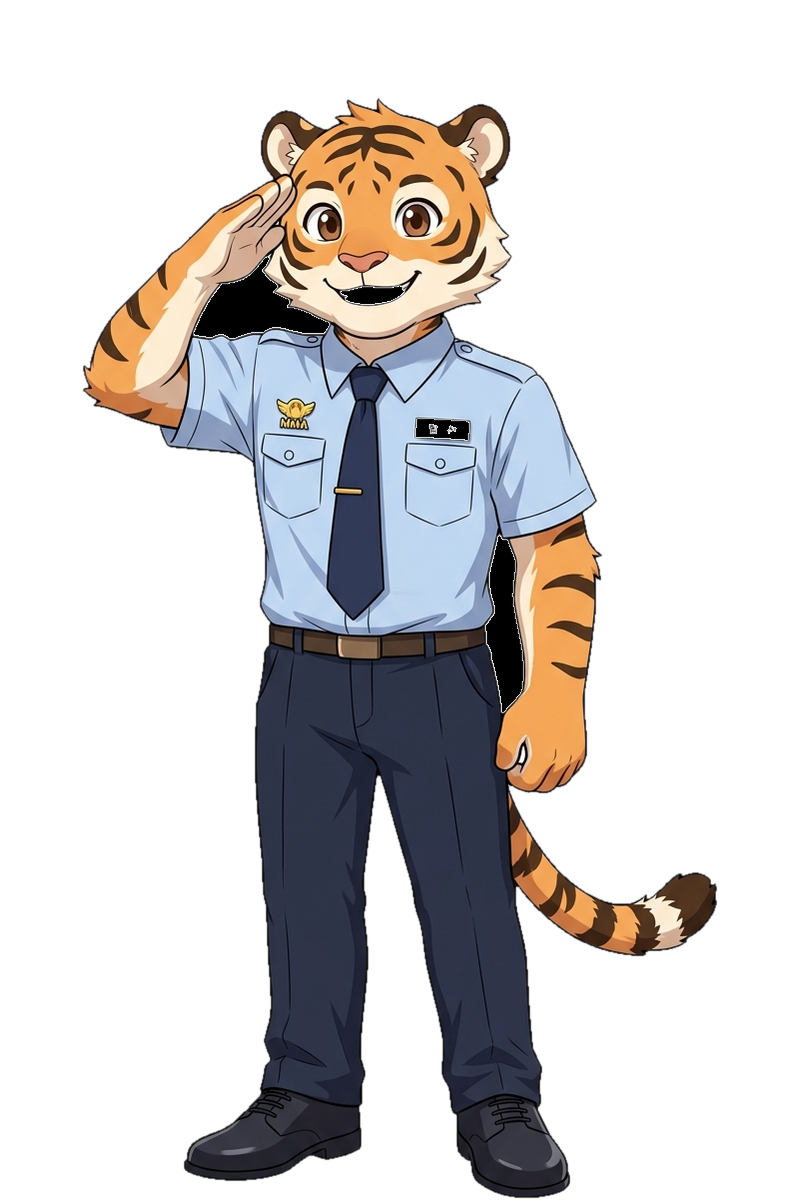
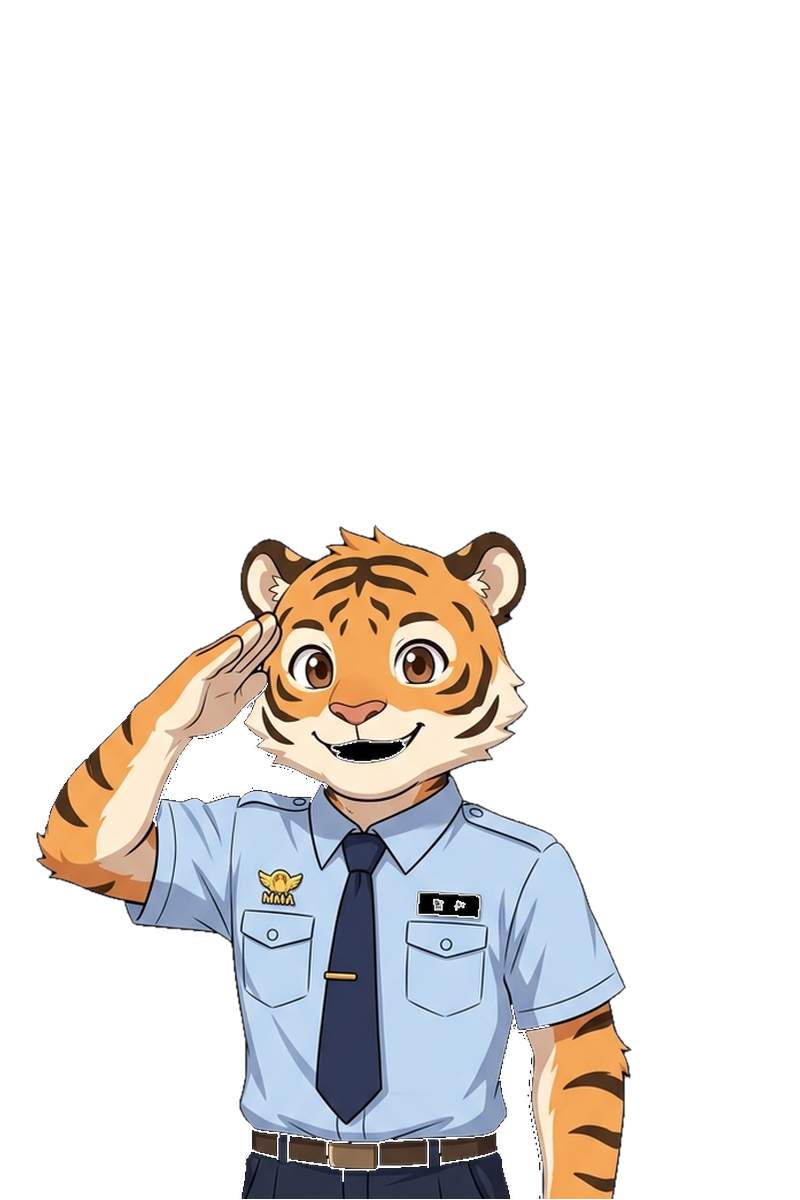
Refactor: 완벽 반영 11종 개선 완료 (배경 달력 제거, 힘찬이 바스트샷 구도 통일, 서울병무청 기본설정, 민원서식 별지제1호 개편, 질환/시력 서류 기준 명확화, 실제 병무청 심리/임상병리/진로설계 배경 적용, e병무지갑·병역진료센터 대본 설명 추가)

diff --git a/index.html b/index.html
@@ -643,10 +643,10 @@
     // 사용자 시뮬레이션 상태 저장소
     const userData = {
       name: "김민우",
-      region: "강원지방병무청",
-      regionName: "강원특별자치도 춘천시",
-      examDate: "2026-10-29 (목) 오전",
-      healthCheck: "특이 질환 없음 (정상 수검)",
+      region: "서울지방병무청",
+      regionName: "서울특별시 영등포구 여의대방로43길 13",
+      examDate: "2026-10-22 (목) 오전",
+      healthCheck: "특이질환 없음",
       hasDisease: false,
       cardType: "KB국민은행 나라사랑카드",
       height: 178,
@@ -1593,27 +1593,41 @@
             <div class="bg-slate-900/95 border border-slate-700/80 rounded-2xl p-5 space-y-4 shadow-2xl w-full">
               <div class="flex items-center justify-between border-b border-slate-800 pb-3">
                 <span class="font-bold text-sm text-white flex items-center gap-2">
-                  <i data-lucide="calendar-check-2" class="w-4 h-4 text-emerald-400"></i> ${userData.examDate || '2026년 10월 29일 (목) 오전'} 예약 가능
+                  <i data-lucide="calendar-check-2" class="w-4 h-4 text-emerald-400"></i> ${userData.examDate || '2026년 10월 22일 (목) 오전'} 예약 가능
                 </span>
                 <span class="text-[11px] px-2.5 py-0.5 rounded-lg bg-emerald-500/20 text-emerald-300 font-semibold">실시간 잔여석 확인됨</span>
               </div>
 
-              <!-- 자동 정리된 민원 신청 정보 박스 -->
-              <div class="bg-slate-950/90 rounded-xl p-3.5 border border-slate-800 space-y-2.5 text-xs">
-                <div class="flex items-center justify-between">
-                  <span class="font-bold text-slate-200 flex items-center gap-1.5 text-xs">
-                    <i data-lucide="file-text" class="w-3.5 h-3.5 text-blue-400"></i> 병무청 민원 신청서 자동 기입 양식
-                  </span>
-                  <button onclick="copyApplicationInfo()" id="btn-copy-info" class="px-2.5 py-1 rounded-lg bg-blue-600/30 hover:bg-blue-600 text-blue-300 hover:text-white border border-blue-500/40 text-[11px] font-bold transition flex items-center gap-1 cursor-pointer">
-                    <i data-lucide="copy" class="w-3 h-3"></i> <span id="copy-btn-text">신청 내용 복사</span>
+              <!-- 병무청 전자민원 신청서 공문서 양식 -->
+              <div class="bg-slate-950/95 rounded-xl p-4 border border-slate-800 space-y-3 text-xs">
+                <div class="flex items-center justify-between border-b border-slate-800 pb-2">
+                  <div>
+                    <span class="text-[10px] text-blue-400 font-bold uppercase tracking-wider block">병역법 시행령 제11조 [별지 제1호 서식]</span>
+                    <h4 class="font-extrabold text-white text-xs sm:text-sm">병역판정검사 일자 및 장소 본인선택(변경) 신청서</h4>
+                  </div>
+                  <button onclick="copyApplicationInfo()" id="btn-copy-info" class="px-2.5 py-1.5 rounded-lg bg-blue-600/30 hover:bg-blue-600 text-blue-300 hover:text-white border border-blue-500/40 text-[11px] font-bold transition flex items-center gap-1 cursor-pointer">
+                    <i data-lucide="copy" class="w-3.5 h-3.5"></i> <span id="copy-btn-text">신청 내용 복사</span>
                   </button>
                 </div>
-                
-                <div class="p-2.5 rounded-lg bg-slate-900/90 border border-slate-800 text-[11px] text-slate-300 space-y-1 leading-relaxed">
-                  <div><span class="text-slate-400">수검 희망일시:</span> <span class="text-blue-300 font-bold">${userData.examDate || '2026년 10월 29일 (목) 오전'}</span></div>
-                  <div><span class="text-slate-400">수검 희망기관:</span> <span class="text-slate-200 font-semibold">${userData.region} (${contact.dept || '병역판정검사과'})</span></div>
-                  <div><span class="text-slate-400">검사장 주소:</span> <span class="text-slate-300">${contact.address}</span></div>
-                  <div><span class="text-slate-400">직통 문의전화:</span> <span class="text-emerald-400 font-semibold">${contact.phone}</span></div>
+
+                <!-- 신청인 인적사항 & 접수현황 -->
+                <div class="grid grid-cols-2 gap-2 bg-slate-900/80 p-2.5 rounded-lg text-[11px]">
+                  <div><span class="text-slate-400">신청인(성명):</span> <strong class="text-slate-200">${userData.name}</strong></div>
+                  <div><span class="text-slate-400">생년월일:</span> <span class="text-slate-200">2007. 10. 15 (만 19세)</span></div>
+                  <div><span class="text-slate-400">접수번호:</span> <span class="text-emerald-400 font-mono font-bold">2026-MMA-847219</span></div>
+                  <div><span class="text-slate-400">신청사유:</span> <span class="text-blue-300 font-semibold">학사일정 중복 본인선택</span></div>
+                </div>
+
+                <!-- 수검 희망 검사장 내역 -->
+                <div class="p-3 rounded-lg bg-slate-900/80 space-y-1.5 text-[11px] leading-relaxed">
+                  <div class="flex items-start gap-1"><span class="text-slate-400 shrink-0">수검 희망일시:</span> <strong class="text-blue-300 font-bold">${userData.examDate || '2026년 10월 22일 (목) 오전'}</strong></div>
+                  <div class="flex items-start gap-1"><span class="text-slate-400 shrink-0">수검 희망기관:</span> <strong class="text-white">${userData.region} (${contact.dept || '병역판정검사과'})</strong></div>
+                  <div class="flex items-start gap-1"><span class="text-slate-400 shrink-0">검사장 소재지:</span> <span class="text-slate-300">${contact.address}</span></div>
+                  <div class="flex items-start gap-1"><span class="text-slate-400 shrink-0">직통 문의전화:</span> <span class="text-emerald-400 font-semibold">${contact.phone}</span></div>
+                  <div class="pt-1.5 border-t border-slate-800/80 text-[10px] text-slate-400 flex items-center gap-1">
+                    <i data-lucide="info" class="w-3 h-3 text-blue-400 shrink-0"></i>
+                    <span>지참물: 주민등록증·운전면허증·여권 등 공인 신분증 필수 (지참 시 신속 수검)</span>
+                  </div>
                 </div>
               </div>
             </div>
@@ -1632,34 +1646,50 @@
       } else if (type === 'HEALTH_CHECK_CHOICE') {
         choiceContainer.innerHTML = `
           <div class="flex flex-col gap-2.5 w-full animate-in fade-in zoom-in-95 duration-150">
+            <!-- 1. 특이질환 없음 (단순 시력저하·안경 포함) -->
+            <button onclick="playBeep(750, 'triangle', 0.05); selectHealth('특이질환 없음');" onmouseenter="playBeep(450, 'sine', 0.015)" class="group w-full p-3.5 rounded-xl bg-slate-900/95 hover:bg-slate-800/95 border border-slate-700 hover:border-emerald-400 transition duration-150 text-left flex items-center justify-between shadow-lg cursor-pointer">
+              <div class="flex items-center gap-3">
+                <span class="w-6 h-6 rounded-lg bg-emerald-600/20 border border-emerald-500/30 text-emerald-300 flex items-center justify-center text-xs font-bold shrink-0">1</span>
+                <div>
+                  <p class="font-bold text-xs sm:text-sm text-white group-hover:text-emerald-300">특이질환 없음 (단순 시력저하·안경 착용 포함)</p>
+                  <p class="text-xs text-slate-400 mt-0.5">서류 제출 불필요 · 병무청 자체 장비로 현장 정밀 측정 (신분증만 지참)</p>
+                </div>
+              </div>
+              <i data-lucide="chevron-right" class="w-4 h-4 text-slate-500 group-hover:text-emerald-300 transition"></i>
+            </button>
+
+            <!-- 2. 정형외과 질환 및 수술 -->
             <button onclick="playBeep(750, 'triangle', 0.05); selectHealth('정형외과 수술/치료 이력');" onmouseenter="playBeep(450, 'sine', 0.015)" class="group w-full p-3.5 rounded-xl bg-slate-900/95 hover:bg-slate-800/95 border border-slate-700 hover:border-blue-400 transition duration-150 text-left flex items-center justify-between shadow-lg cursor-pointer">
               <div class="flex items-center gap-3">
-                <span class="w-6 h-6 rounded-lg bg-blue-600/20 border border-blue-500/30 text-blue-300 flex items-center justify-center text-xs font-bold shrink-0">1</span>
-                <div><p class="font-bold text-xs sm:text-sm text-white group-hover:text-blue-300">무릎 / 발목 / 척추 질환 및 수술 이력</p><p class="text-xs text-slate-400 mt-0.5">병무용진단서 + 수술기록지 + MRI 영상 CD 필수</p></div>
-              </div>
-              <i data-lucide="chevron-right" class="w-4 h-4 text-slate-500 group-hover:text-blue-300 transition"></i>
-            </button>
-
-            <button onclick="playBeep(750, 'triangle', 0.05); selectHealth('시력/안과 질환');" onmouseenter="playBeep(450, 'sine', 0.015)" class="group w-full p-3.5 rounded-xl bg-slate-900/95 hover:bg-slate-800/95 border border-slate-700 hover:border-blue-400 transition duration-150 text-left flex items-center justify-between shadow-lg cursor-pointer">
-              <div class="flex items-center gap-3">
                 <span class="w-6 h-6 rounded-lg bg-blue-600/20 border border-blue-500/30 text-blue-300 flex items-center justify-center text-xs font-bold shrink-0">2</span>
-                <div><p class="font-bold text-xs sm:text-sm text-white group-hover:text-blue-300">시력 교정술 및 안과 질환</p><p class="text-xs text-slate-400 mt-0.5">최근 안과 소견서 / 의무기록사본 지참</p></div>
+                <div>
+                  <p class="font-bold text-xs sm:text-sm text-white group-hover:text-blue-300">무릎 / 발목 / 척추 질환 및 수술 이력</p>
+                  <p class="text-xs text-slate-400 mt-0.5">병무용진단서 + 수술기록지 + MRI/CT 영상 CD 필수 지참</p>
+                </div>
               </div>
               <i data-lucide="chevron-right" class="w-4 h-4 text-slate-500 group-hover:text-blue-300 transition"></i>
             </button>
 
-            <button onclick="playBeep(750, 'triangle', 0.05); selectHealth('내과/복용약');" onmouseenter="playBeep(450, 'sine', 0.015)" class="group w-full p-3.5 rounded-xl bg-slate-900/95 hover:bg-slate-800/95 border border-slate-700 hover:border-blue-400 transition duration-150 text-left flex items-center justify-between shadow-lg cursor-pointer">
+            <!-- 3. 기질적 안과 질환 및 수술 -->
+            <button onclick="playBeep(750, 'triangle', 0.05); selectHealth('기질적 안과 질환/수술');" onmouseenter="playBeep(450, 'sine', 0.015)" class="group w-full p-3.5 rounded-xl bg-slate-900/95 hover:bg-slate-800/95 border border-slate-700 hover:border-blue-400 transition duration-150 text-left flex items-center justify-between shadow-lg cursor-pointer">
               <div class="flex items-center gap-3">
                 <span class="w-6 h-6 rounded-lg bg-blue-600/20 border border-blue-500/30 text-blue-300 flex items-center justify-center text-xs font-bold shrink-0">3</span>
-                <div><p class="font-bold text-xs sm:text-sm text-white group-hover:text-blue-300">천식 / 피부질환 / 만성 투약 질환</p><p class="text-xs text-slate-400 mt-0.5">처방전 및 6개월 이상 지속 복용기록</p></div>
+                <div>
+                  <p class="font-bold text-xs sm:text-sm text-white group-hover:text-blue-300">기질적 안과 질환(망막·각막·녹내장 등) 수술·치료 이력</p>
+                  <p class="text-xs text-slate-400 mt-0.5">병무용진단서 + 의무기록사본 지참 (※단순 근시·원시·난시는 서류 불필요)</p>
+                </div>
               </div>
               <i data-lucide="chevron-right" class="w-4 h-4 text-slate-500 group-hover:text-blue-300 transition"></i>
             </button>
 
-            <button onclick="playBeep(750, 'triangle', 0.05); selectHealth('특이 질환 없음 (정상 수검)');" onmouseenter="playBeep(450, 'sine', 0.015)" class="group w-full p-3.5 rounded-xl bg-slate-900/95 hover:bg-slate-800/95 border border-slate-700 hover:border-blue-400 transition duration-150 text-left flex items-center justify-between shadow-lg cursor-pointer">
+            <!-- 4. 내과 / 만성 질환 -->
+            <button onclick="playBeep(750, 'triangle', 0.05); selectHealth('내과/복용약');" onmouseenter="playBeep(450, 'sine', 0.015)" class="group w-full p-3.5 rounded-xl bg-slate-900/95 hover:bg-slate-800/95 border border-slate-700 hover:border-blue-400 transition duration-150 text-left flex items-center justify-between shadow-lg cursor-pointer">
               <div class="flex items-center gap-3">
                 <span class="w-6 h-6 rounded-lg bg-blue-600/20 border border-blue-500/30 text-blue-300 flex items-center justify-center text-xs font-bold shrink-0">4</span>
-                <div><p class="font-bold text-xs sm:text-sm text-slate-200 group-hover:text-blue-300">특이 질환 없음 (신체 건강)</p><p class="text-xs text-slate-500 mt-0.5">신분증만 지참하고 당일 참석</p></div>
+                <div>
+                  <p class="font-bold text-xs sm:text-sm text-white group-hover:text-blue-300">천식 / 피부질환 / 만성 질환 투약 이력 (6개월 이상)</p>
+                  <p class="text-xs text-slate-400 mt-0.5">6개월 이상 지속 치료 의무기록사본 및 처방전 지참</p>
+                </div>
               </div>
               <i data-lucide="chevron-right" class="w-4 h-4 text-slate-500 group-hover:text-blue-300 transition"></i>
             </button>
@@ -2573,7 +2603,7 @@
       if (choiceContainer) choiceContainer.innerHTML = '';
 
       userData.healthCheck = val;
-      userData.hasDisease = !val.includes('특이 질환 없음');
+      userData.hasDisease = !(val.includes('특이질환') || val.includes('특이 질환'));
       if (userData.hasDisease) {
         userData.finalGrade = "4급 (보충역)";
         userData.disposition = "사회복무요원 소집 대상";
@@ -2635,15 +2665,24 @@
 
     // 병무청 민원 신청서 작성용 필수 정보 원클릭 복사
     function copyApplicationInfo() {
-      const contact = (typeof MmaApiService !== 'undefined') ? MmaApiService.getOfficeContact(userData.region) : { phone: "033-240-6241", address: "강원도 춘천시 백령로 65 (남춘천역 셔틀)", dept: "병역판정검사과" };
-      const textToCopy = `[병무청 병역판정검사 일자 및 장소 본인선택 신청 정보]
-• 수검 희망일시: ${userData.examDate || '2026-10-29 (목) 오전'}
+      const contact = (typeof MmaApiService !== 'undefined') ? MmaApiService.getOfficeContact(userData.region) : { phone: "02-820-4241", address: "서울특별시 영등포구 여의대방로43길 13 (신길역/대방역)", dept: "병역판정검사과" };
+      const textToCopy = `[별지 제1호 서식] 병역판정검사 일자 및 장소 본인선택(변경) 신청서
+■ 신청인 정보
+• 성명: ${userData.name}
+• 생년월일: 2007년 10월 15일 (만 19세)
+• 접수번호: 2026-MMA-847219
+• 신청구분: 병역판정검사 일자 및 장소 본인선택 (학사일정 중복 사유)
+
+■ 수검 희망 검사장 내역
+• 수검 희망일시: ${userData.examDate || '2026년 10월 22일 (목) 오전'}
 • 수검 희망기관: ${userData.region} (${contact.dept || '병역판정검사과'})
-• 검사장 주소: ${contact.address}
+• 검사장 소재지: ${contact.address}
 • 직통 문의전화: ${contact.phone}
-• 지참 준비물: 주민등록증/운전면허증/여권 등 공인 신분증
-• 공식 신청 사이트: 병무청 누리집 민원포털 (https://mwpt.mma.go.kr)
-※ 위 내용을 복사하여 병무청 누리집 [병역판정검사 본인선택] 신청서 작성 시 참고하세요.`;
+
+■ 근거 법령 및 유의사항
+• 관련법령: 「병역법 시행령」 제11조 및 「병역판정검사 규정」 제14조
+• 지참준비물: 주민등록증, 운전면허증, 여권 등 사진이 부착된 공인 신분증 필수
+• 온라인 접수처: 병무청 누리집 민원포털 (https://mwpt.mma.go.kr)`;
 
       navigator.clipboard.writeText(textToCopy).then(() => {
         const btnText = document.getElementById('copy-btn-text');

diff --git a/scenario.js b/scenario.js
@@ -95,10 +95,10 @@ const SCENARIOS = [
     speaker: "힘찬이 (병무청 AI 가이드)",
     speaker_en: "Himchan (MMA AI Guide)",
     plateClass: "from-blue-700 to-indigo-800 border-blue-400/40",
-    text: "일정이 정해졌으니, 검사 당일 헛걸음하지 않도록\n민우 님의 몸 상태에 맞는 맞춤형 구비서류를 미리 챙겨볼까요?\n\n평소 앓고 계신 질환이나 수술 이력이 있으신가요?",
-    text_en: "Now that the schedule is set, let's check the customized required documents tailored to your medical history so you won't have to make a wasted trip.\n\nDo you have any pre-existing medical conditions or past surgeries?",
-    apiSource: "[API] 국가법령정보센터: 「병역판정 신체검사 등 검사규칙」(국방부령) [별표 3] 질병·심신장애 평가기준",
-    apiSource_en: "[API] National Law Information Center: 「Physical Exam Rules」(Defense Ministry Ordinance) [Table 3]",
+    text: "일정이 정해졌으니, 검사 당일 헛걸음하지 않도록 몸 상태에 맞는 맞춤형 구비서류를 미리 챙겨볼까요?\n\n많은 분들이 시력(근시·난시)이나 체중(BMI)도 진단서를 떼어가야 하는지 궁금해하시는데요,\n단순 시력(안경 착용)과 신장·체중은 병무청 자체 최첨단 장비로 현장에서 100% 직접 정밀 측정하므로 진단서나 서류가 전혀 필요 없습니다! (안경만 착용하고 오시면 됩니다.)\n\n반면, 과거 수술을 받았거나 6개월 이상 치료 중인 질환(관절, 척추, 기질적 안과 질환, 만성 내과 등)이 있으신 경우에는 공정한 판정을 위해 병무용 진단서와 의무기록(영상 CD 포함)을 지참하셔야 합니다. 민우 님은 해당사항이 있으신가요?",
+    text_en: "Now that your schedule is set, let's check the required documents tailored to your medical history.\n\nMany ask if vision (myopia/astigmatism) or BMI requires a medical certificate. Simple vision correction (glasses) and BMI are measured directly on-site with MMA's advanced equipment, requiring NO medical certificate or documents!\n\nHowever, if you have a history of surgery or over 6 months of continuous treatment (joint/spine, ocular diseases, chronic internal medicine), you must bring a Military Medical Certificate and medical records (including MRI/CT CDs). Do any of these apply to you?",
+    apiSource: "[API] 국가법령정보센터: 「병역판정 신체검사 등 검사규칙」(국방부령) [별표 1] 분담업무 및 [별표 3] 질병·심신장애 평가기준",
+    apiSource_en: "[API] National Law Information Center: 「Physical Exam Rules」(Defense Ministry Ordinance) [Table 1 & 3]",
     apiSourceUrl: "https://www.law.go.kr/법령/병역판정신체검사등검사규칙",
     apiIcon: "scale",
     isApi: true,
@@ -325,9 +325,9 @@ const SCENARIOS = [
     widgetType: "DOCTOR_ROOM_CONFIRM"
   },
 
-  // [SCENE 11] 적성분류실 (군 특기 및 병과 적성 분류) - 정상 1~2급 수검자 분기
+  // [SCENE 11] 적성분류 (군 특기 및 병과 적성분류) - 1~2급 현역 대상 특기 매칭 (적성분류관 & 민우)
   {
-    bg: "assets/aptitude_room.jpg",
+    bg: "assets/career_center.jpg",
     char: "assets/doctor.png",
     speaker: "적성분류관 NPC",
     speaker_en: "Aptitude Classification Officer NPC",
@@ -401,8 +401,8 @@ const SCENARIOS = [
         char: "assets/himchan_cheer.png",
         charPos: "right",
         plateClass: "from-blue-700 to-indigo-800 border-blue-400/40",
-        text: "민우 님 축하드립니다! 오늘 수검에 따른 실시간 여비 [ {fare} ]도 {cardType} 계좌로 즉시 입금 완료되었습니다.\n\n최종 결과서를 확인하신 후, 탈의실로 이동하여 평상복으로 환복해 주세요!",
-        text_en: "Minwoo, congratulations! Your travel allowance of [ {fare} ] has been deposited into your {cardType} account.\n\nAfter checking your final certificate, please proceed to the locker room to change into your normal clothes!"
+        text: "민우 님 축하드립니다! 오늘 모든 검사를 훌륭하게 마치셨고, 오늘 수검에 따른 실시간 여비 [ {fare} ]도 {cardType} 계좌로 즉시 입금 완료되었습니다.\n\n화면 상단을 보시면 검사 후 유용하게 활용할 수 있는 두 가지 핵심 서비스가 준비되어 있습니다:\n\n① 스마트 e-병무지갑: 종이 서류 없이 스마트폰 앱 하나로 병역판정결과서와 전자 병역증을 영구 보관하고, 군 장병·청년 우대 할인 바우처를 즉시 발급받을 수 있습니다.\n\n② 병역진로설계센터: 민우 님의 전공과 적성에 딱 맞는 군 특기(기술행정병 등)를 1:1 맞춤 추천받고, 전역 후 취업까지 무료로 연계 지원하는 원스톱 청년 복지 서비스입니다!\n\n두 혜택을 확인해 보신 후, 아래 [최종 병역판정 결과서 발급 및 확인] 버튼을 눌러 정식 결과서를 열람해 보세요!",
+        text_en: "Congratulations Minwoo! You have completed all exams and your travel allowance of [ {fare} ] has been deposited into your {cardType} account.\n\nAbove, you will see two key post-exam services:\n\n① Smart e-Military Wallet: Store your draft physical exam results & digital military ID securely on your smartphone and unlock military discount vouchers.\n\n② Military Career Design Center: Receive free 1-on-1 counseling to match your major/aptitude with specialized military roles and post-discharge employment support!\n\nPlease review these services and click the button below to view your official Certificate of Physical Examination!"
       }
     ],
     apiSource: "[API] 공공데이터포털: 병무청_병역의무자 여비 지급 기준 데이터 (실시간 산정)",

diff --git a/api.js b/api.js
@@ -259,28 +259,28 @@ const MmaApiService = {
    */
   getLawCriteriaSync(category) {
     const criteriaMap = {
+      "특이질환 없음": {
+        lawRef: "「병역판정 신체검사 등 검사규칙」(국방부령) [별표 1] 신체검사 분담업무 및 [별표 2] 신장·체중·시력 기준",
+        docs: ["주민등록증 / 운전면허증 등 사진 부착 공인 신분증 필수", "※ 단순 시력(근시·원시·난시) 및 신장·체중(BMI)은 병무청 자체 장비로 현장 정밀 측정하므로 진단서 불필요"],
+        expectedGrade: "1급 (현역)"
+      },
       "정형외과 수술/치료 이력": {
-        lawRef: "「병역판정 신체검사 등 검사규칙」(국방부령) 제11조 및 [별표 2] 204호",
+        lawRef: "「병역판정 신체검사 등 검사규칙」(국방부령) 제11조 및 [별표 3] 정형외과 평가기준",
         docs: ["병무용 진단서 (최근 3개월 이내 발급)", "수술기록지 및 경과기록지", "최근 6개월 이내 MRI/CT/X-ray 영상 CD"],
         expectedGrade: "4급 (보충역)"
       },
-      "시력/안과 질환": {
-        lawRef: "「검사규칙」(국방부령) [별표 2] 안과 질환 및 굴절이상 판정기준",
-        docs: ["최근 3개월 이내 안과 의무기록사본", "시력 교정 수술기록지 (해당자)"],
-        expectedGrade: "2급 또는 3급"
-      },
-      "내과/복용약": {
-        lawRef: "「검사규칙」(국방부령) [별표 2] 만성 내과 질환 및 약물 복용 평가기준",
-        docs: ["6개월 이상 연속 투약 증명 처방전", "병원 발행 의무기록사본"],
+      "기질적 안과 질환/수술": {
+        lawRef: "「검사규칙」(국방부령) [별표 3] 안과 질환(망막·각막·녹내장 등) 평가기준",
+        docs: ["병무용 진단서", "최근 3개월 이내 안과 의무기록사본 및 수술기록지 (※단순 근시·원시·난시는 서류 불필요)"],
         expectedGrade: "3급 또는 4급"
       },
-      "건강 체질": {
-        lawRef: "「검사규칙」 [별표 1] 및 [별표 2] 정상 기준",
-        docs: ["주민등록증 / 운전면허증 등 공인 신분증"],
-        expectedGrade: "1급 (현역)"
+      "내과/복용약": {
+        lawRef: "「검사규칙」(국방부령) [별표 3] 만성 내과/피부/정신건강 질환 평가기준",
+        docs: ["6개월 이상 연속 투약 증명 처방전", "병원 발행 의무기록사본 및 경과기록지"],
+        expectedGrade: "3급 또는 4급"
       }
     };
-    return criteriaMap[category] || criteriaMap["건강 체질"];
+    return criteriaMap[category] || criteriaMap["특이질환 없음"];
   },
 
   async getLawCriteria(category) {
